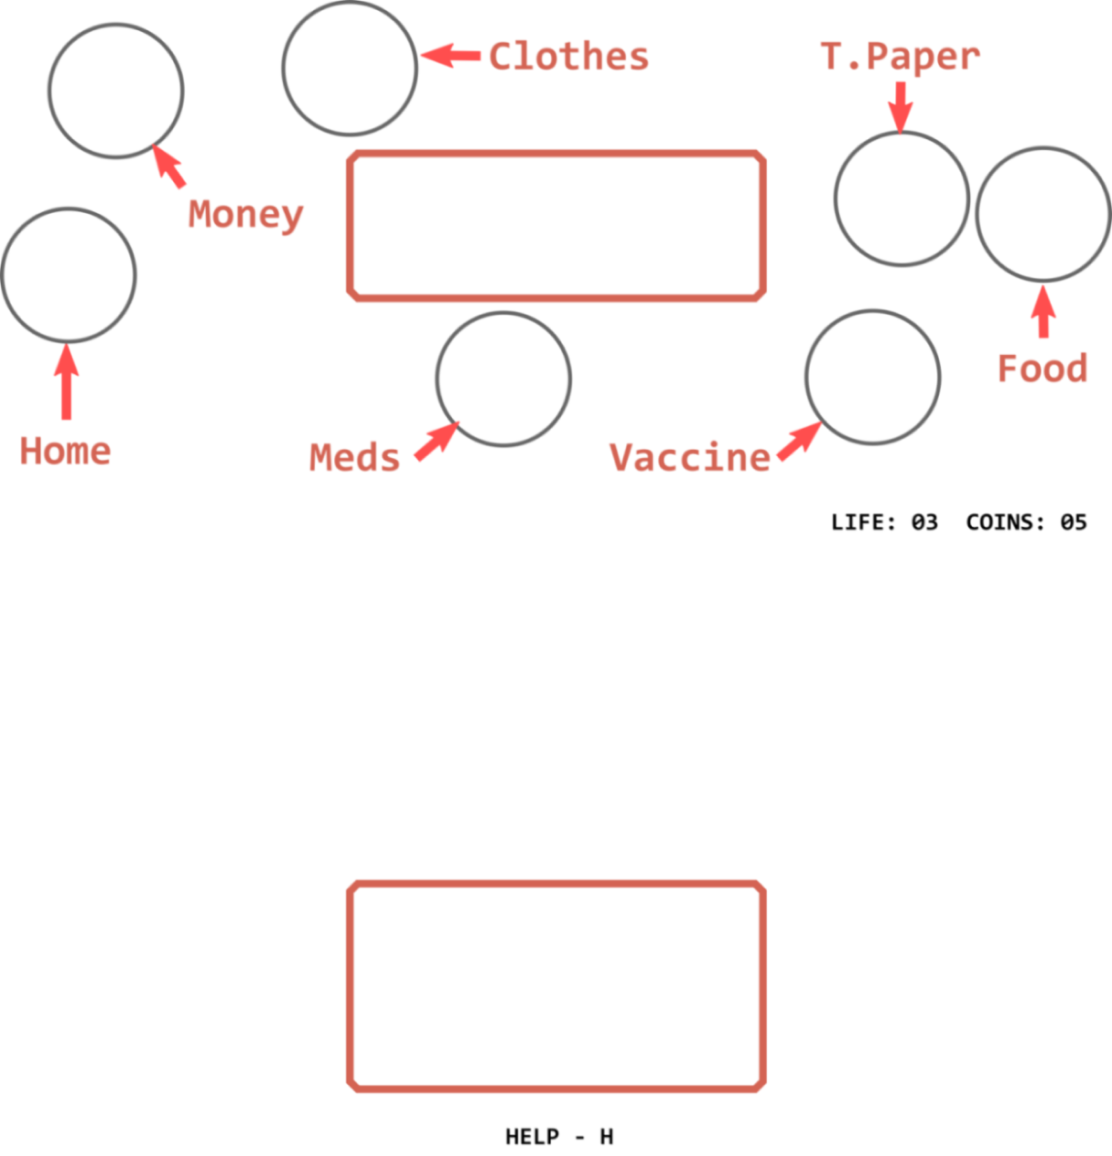
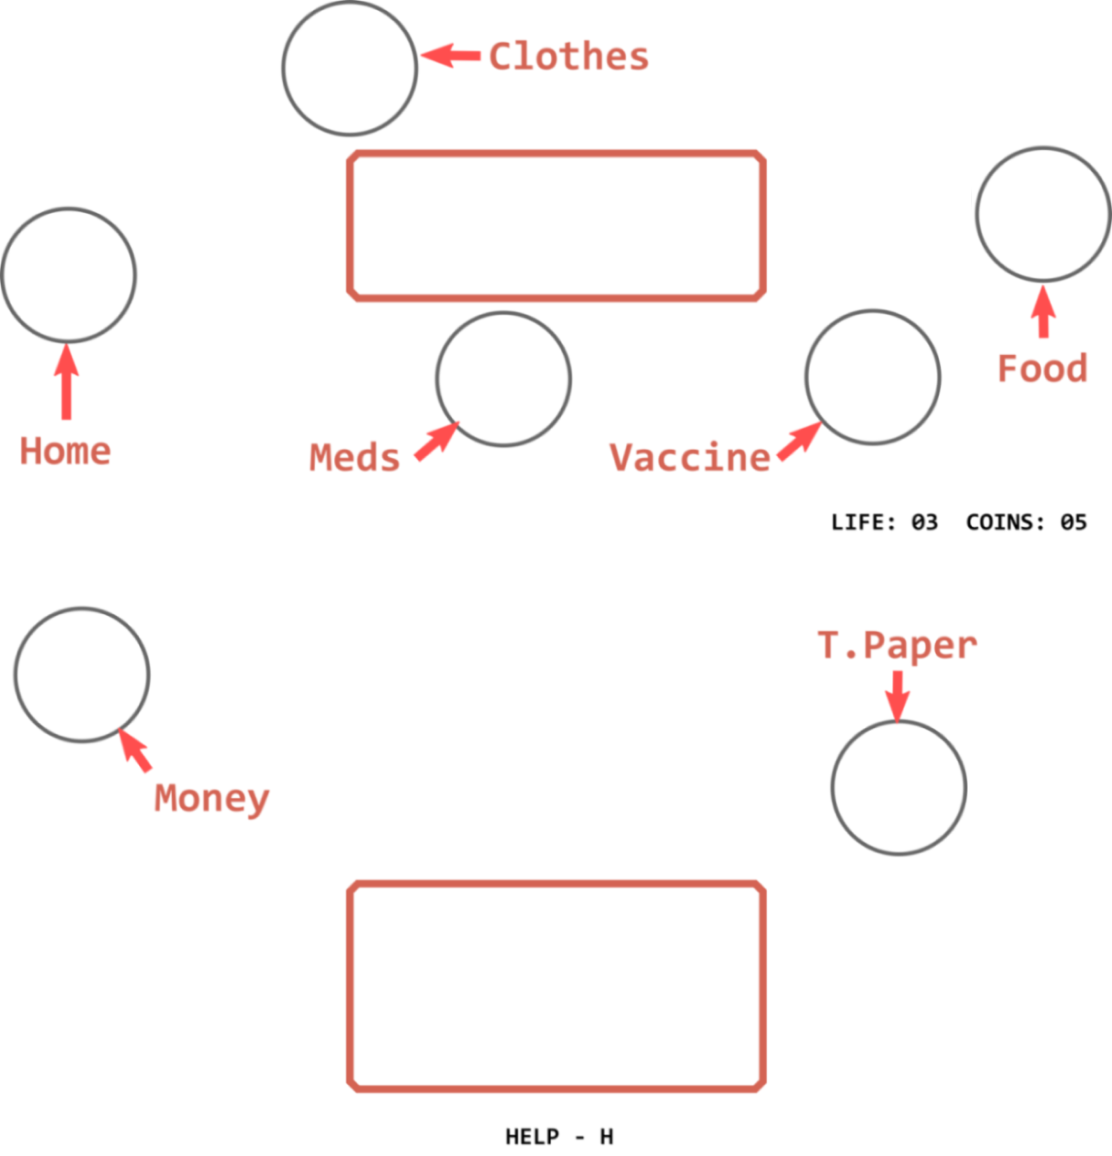
niveles

diff --git a/sircovid/Objetos.go b/sircovid/Objetos.go
@@ -37,10 +37,10 @@ var (
 func initObjetos() {
 	//objetos
 	barbijo.FrameOX = 0
-	barbijo.FrameOY = 160
+	barbijo.FrameOY = 62
 	barbijo.FrameNum = 1
-	barbijo.FrameWidth = 105
-	barbijo.FrameHeight = 40
+	barbijo.FrameWidth = 38
+	barbijo.FrameHeight = 17
 	barbijo.X = float64(650)
 	barbijo.Y = float64(150)
 	barbijo.img, _, err = ebitenutil.NewImageFromFile(`sircovid\data\objetos.png`, ebiten.FilterDefault)
@@ -48,30 +48,30 @@ func initObjetos() {
 		log.Fatal(err)
 	}
 	plasma.FrameOX = 0
-	plasma.FrameOY = 200
+	plasma.FrameOY = 79
 	plasma.FrameNum = 1
-	plasma.FrameWidth = 60
-	plasma.FrameHeight = 120
+	plasma.FrameWidth = 30
+	plasma.FrameHeight = 48
 	plasma.X = float64(489)
 	plasma.Y = float64(73)
 	plasma.img = barbijo.img
 
 	alchol.FrameOX = 0
-	alchol.FrameOY = 320
+	alchol.FrameOY = 124
 	alchol.FrameNum = 1
-	alchol.FrameWidth = 65
-	alchol.FrameHeight = 120
+	alchol.FrameWidth = 30
+	alchol.FrameHeight = 39
 	alchol.X = float64(353)
-	alchol.Y = float64(270)
+	alchol.Y = float64(260)
 	alchol.img = barbijo.img
 
 	monedas.FrameOX = 0
-	monedas.FrameOY = 440
+	monedas.FrameOY = 170
 	monedas.FrameNum = 1
-	monedas.FrameWidth = 65
-	monedas.FrameHeight = 80
-	monedas.X = float64(433)
-	monedas.Y = float64(130)
+	monedas.FrameWidth = 24
+	monedas.FrameHeight = 30
+	monedas.X = float64(430)
+	monedas.Y = float64(125)
 	monedas.img = barbijo.img
 
 	//carteles
@@ -100,18 +100,7 @@ func initObjetos() {
 	if err != nil {
 		log.Fatal(err)
 	}
-	cruz.FrameOX = 0
-	cruz.FrameOX = 0
-	cruz.FrameOY = 0
-	cruz.FrameNum = 1
-	cruz.FrameWidth = 862
-	cruz.FrameHeight = 370
-	cruz.X = float64(785)
-	cruz.Y = float64(330)
-	cruz.img, _, err = ebitenutil.NewImageFromFile(`sircovid\data\cruz.png`, ebiten.FilterDefault)
-	if err != nil {
-		log.Fatal(err)
-	}
+
 	fondoNegro.FrameOX = 344
 	fondoNegro.FrameOY = 876
 	fondoNegro.FrameNum = 1
@@ -174,104 +163,67 @@ func initObjetos() {
 		log.Fatal(err)
 	}
 	mhome.FrameOX = 0
-	mhome.FrameOY = 0
+	mhome.FrameOY = 202
 	mhome.FrameNum = 1
-	mhome.FrameWidth = 388
-	mhome.FrameHeight = 757
+	mhome.FrameWidth = 144
+	mhome.FrameHeight = 287
 	mhome.X = float64(0)
 	mhome.Y = float64(200)
-	mhome.img, _, err = ebitenutil.NewImageFromFile(`sircovid\data\mission-home.png`, ebiten.FilterDefault)
-	if err != nil {
-		log.Fatal(err)
-	}
-	mhome1.FrameOX = 0
-	mhome1.FrameOY = 0
-	mhome1.FrameNum = 1
-	mhome1.FrameWidth = 388
-	mhome1.FrameHeight = 757
-	mhome1.X = float64(220)
-	mhome1.Y = float64(200)
-	mhome1.img, _, err = ebitenutil.NewImageFromFile(`sircovid\data\mission-home.png`, ebiten.FilterDefault)
-	if err != nil {
-		log.Fatal(err)
-	}
+	mhome.img = fondoNegro.img
+
 	money.FrameOX = 0
-	money.FrameOY = 0
+	money.FrameOY = 600
 	money.FrameNum = 1
-	money.FrameWidth = 1070
-	money.FrameHeight = 423
+	money.FrameWidth = 290
+	money.FrameHeight = 232
 	money.X = float64(50)
 	money.Y = float64(50)
-	money.img, _, err = ebitenutil.NewImageFromFile(`sircovid\data\mission-money.png`, ebiten.FilterDefault)
-	if err != nil {
-		log.Fatal(err)
-	}
-	meds.FrameOX = 0
-	meds.FrameOY = 0
+	money.img = fondoNegro.img
+
+	meds.FrameOX = 297
+	meds.FrameOY = 310
 	meds.FrameNum = 1
-	meds.FrameWidth = 945
-	meds.FrameHeight = 759
-	meds.X = float64(230)
+	meds.FrameWidth = 300
+	meds.FrameHeight = 180
+	meds.X = float64(315)
 	meds.Y = float64(310)
-	meds.img, _, err = ebitenutil.NewImageFromFile(`sircovid\data\mission-meds.png`, ebiten.FilterDefault)
-	if err != nil {
-		log.Fatal(err)
-	}
-	bread.FrameOX = 0
-	bread.FrameOY = 0
+	meds.img = fondoNegro.img
+
+	bread.FrameOX = 975
+	bread.FrameOY = 140
 	bread.FrameNum = 1
-	bread.FrameWidth = 1047
-	bread.FrameHeight = 503
-	bread.X = float64(750)
+	bread.FrameWidth = 140
+	bread.FrameHeight = 257
+	bread.X = float64(950)
 	bread.Y = float64(145)
-	bread.img, _, err = ebitenutil.NewImageFromFile(`sircovid\data\mission-bread.png`, ebiten.FilterDefault)
-	if err != nil {
-		log.Fatal(err)
-	}
-	clothes.FrameOX = 0
+	bread.img = fondoNegro.img
+
+	clothes.FrameOX = 278
 	clothes.FrameOY = 0
 	clothes.FrameNum = 1
-	clothes.FrameWidth = 941
-	clothes.FrameHeight = 694
+	clothes.FrameWidth = 387
+	clothes.FrameHeight = 142
 	clothes.X = float64(270)
 	clothes.Y = float64(0)
-	clothes.img, _, err = ebitenutil.NewImageFromFile(`sircovid\data\mission-clothes.png`, ebiten.FilterDefault)
-	if err != nil {
-		log.Fatal(err)
-	}
-	tpaper.FrameOX = 0
-	tpaper.FrameOY = 0
+	clothes.img = fondoNegro.img
+
+	tpaper.FrameOX = 794
+	tpaper.FrameOY = 610
 	tpaper.FrameNum = 1
-	tpaper.FrameWidth = 1151
-	tpaper.FrameHeight = 388
-	tpaper.X = float64(560)
-	tpaper.Y = float64(135)
-	tpaper.img, _, err = ebitenutil.NewImageFromFile(`sircovid\data\mission-tpaper.png`, ebiten.FilterDefault)
-	if err != nil {
-		log.Fatal(err)
-	}
-	tpaper.FrameOX = 0
-	tpaper.FrameOY = 0
-	tpaper.FrameNum = 1
-	tpaper.FrameWidth = 1151
-	tpaper.FrameHeight = 388
-	tpaper.X = float64(560)
-	tpaper.Y = float64(135)
-	tpaper.img, _, err = ebitenutil.NewImageFromFile(`sircovid\data\mission-tpaper.png`, ebiten.FilterDefault)
-	if err != nil {
-		log.Fatal(err)
-	}
-	vaccine.FrameOX = 0
-	vaccine.FrameOY = 0
+	tpaper.FrameWidth = 210
+	tpaper.FrameHeight = 259
+	tpaper.X = float64(750)
+	tpaper.Y = float64(35)
+	tpaper.img = fondoNegro.img
+
+	vaccine.FrameOX = 590
+	vaccine.FrameOY = 312
 	vaccine.FrameNum = 1
-	vaccine.FrameWidth = 1106
-	vaccine.FrameHeight = 468
-	vaccine.X = float64(560)
+	vaccine.FrameWidth = 360
+	vaccine.FrameHeight = 182
+	vaccine.X = float64(600)
 	vaccine.Y = float64(335)
-	vaccine.img, _, err = ebitenutil.NewImageFromFile(`sircovid\data\mission-vaccine.png`, ebiten.FilterDefault)
-	if err != nil {
-		log.Fatal(err)
-	}
+	vaccine.img = fondoNegro.img
 }
 
 func dibujarNiveles(screen *ebiten.Image) {
@@ -304,8 +256,8 @@ func dibujarNiveles(screen *ebiten.Image) {
 
 func dibujarObjetos(B Objetos, screen *ebiten.Image) {
 	op := &ebiten.DrawImageOptions{}
-	if B != fondoNegroVidas2 && B != fondoNegroVidas1 && B != relato && B != papiro && B != fondoNegro && B != fondoNegroCompras && B != fondoNegroCommans && B != fondoNegroPause {
-		op.GeoM.Scale(objScale, objScale)
+	if B == mhome || B == money || B == meds || B == bread || B == clothes || B == tpaper || B == vaccine {
+		op.GeoM.Scale(.8, .8)
 	}
 	op.GeoM.Translate(B.X, B.Y)
 	bx, by := B.FrameOX, B.FrameOY

diff --git a/sircovid/sirCovid.go b/sircovid/sirCovid.go
@@ -202,11 +202,6 @@ func (g *Game) Draw(screen *ebiten.Image) {
 		//dibujar objetos
 		dibujarObjetos(barbijo, screen)
 		dibujarObjetos(plasma, screen)
-		//dibujarObjetos(alchol, screen)
-		//dibujarObjetos(monedas, screen)
-		if Level > 10 {
-			dibujarObjetos(cruz, screen)
-		}
 
 		//dibuja al enemigo
 		dibujarEnemigos(enemigo, screen)
